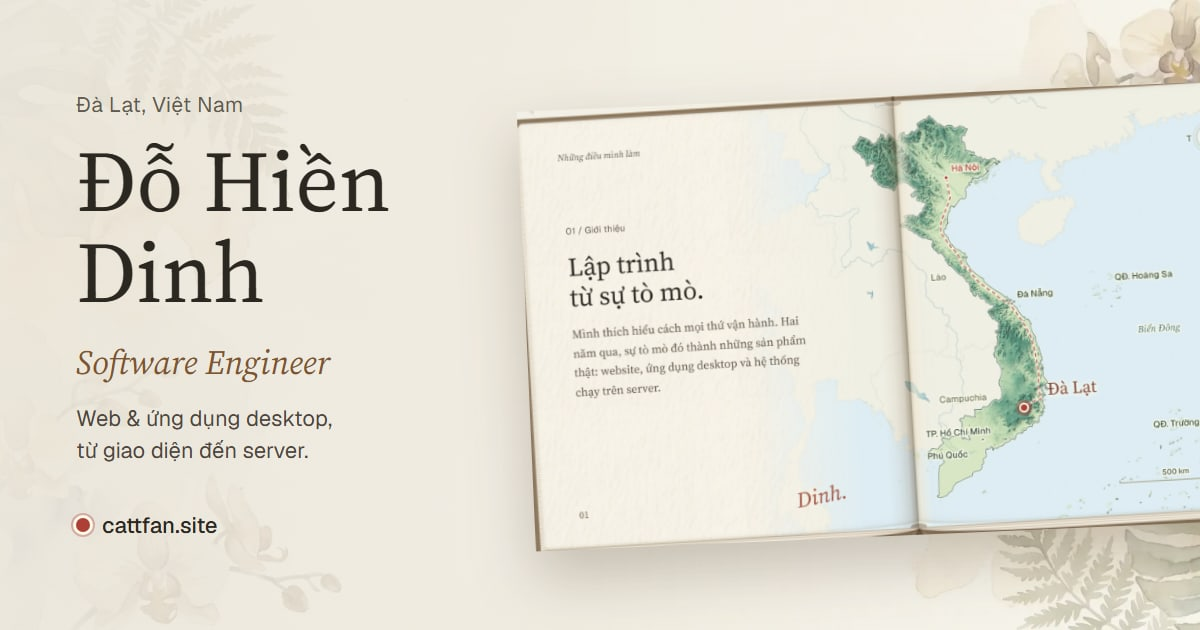
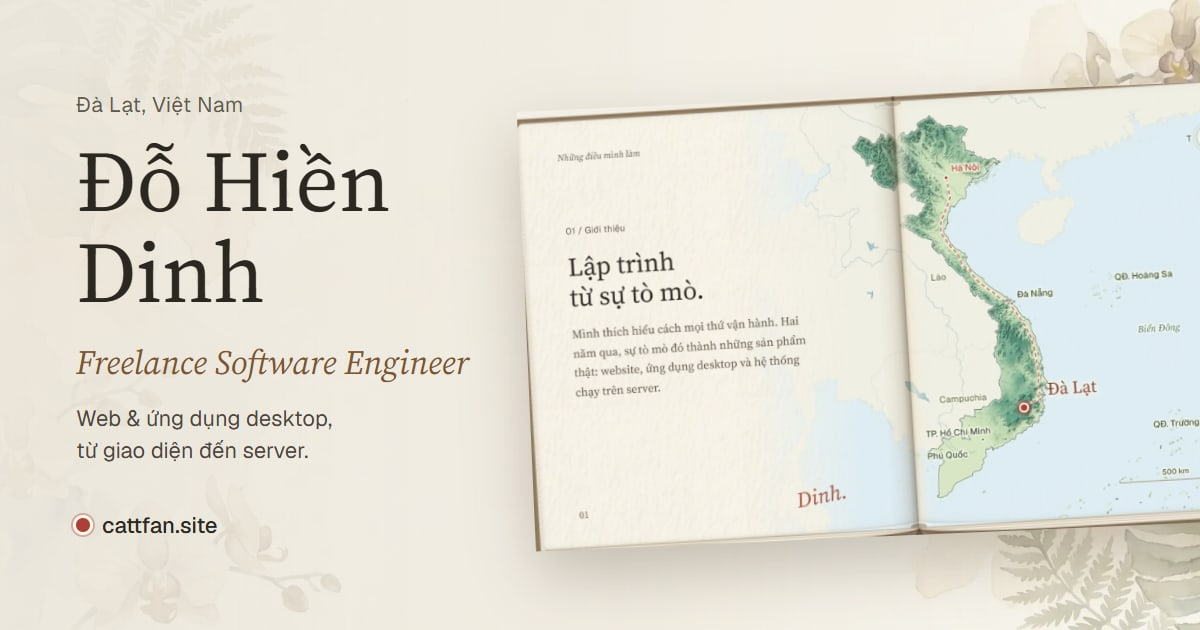
Add an English page at /en with its own metadata and preview
/en renders English server HTML (exported with lang="en"), English title,
description and social image, and hreflang alternates; the sitemap lists
both pages. The language toggle keeps the address on the matching page.
Both pages carry JSON-LD Person data, and og:image:alt no longer ends in a
stray CRLF. Nginx redirects /en/ to /en with relative redirects.

Changed region(s): [[0.0617, 0.5429, 0.4008, 0.6032]]

diff --git a/apps/web/app/page-metadata.ts b/apps/web/app/page-metadata.ts
@@ -1,0 +1,71 @@
+import type { Metadata } from "next";
+
+const indexable = process.env.PORTFOLIO_INDEXABLE === "1";
+
+const copy = {
+  vi: {
+    path: "/",
+    locale: "vi_VN",
+    alternateLocale: "en_US",
+    title: "Đỗ Hiền Dinh | Freelance Software Engineer",
+    description:
+      "Freelance Software Engineer ở Đà Lạt với 2 năm kinh nghiệm làm web và ứng dụng desktop, từ giao diện đến server. Dự án, công nghệ và thông tin liên hệ.",
+  },
+  en: {
+    path: "/en",
+    locale: "en_US",
+    alternateLocale: "vi_VN",
+    title: "Đỗ Hiền Dinh | Freelance Software Engineer",
+    description:
+      "Freelance Software Engineer in Da Lat, Vietnam, with two years of experience building web and desktop apps, from interface to server. Projects, tech stack and contact details.",
+  },
+} as const;
+
+// Each language page owns its metadata; robots live here so the 404 page keeps
+// only Next's own noindex tag.
+export function pageMetadata(language: keyof typeof copy): Metadata {
+  const page = copy[language];
+  return {
+    title: page.title,
+    description: page.description,
+    alternates: {
+      canonical: page.path,
+      languages: { vi: "/", en: "/en", "x-default": "/" },
+    },
+    openGraph: {
+      title: page.title,
+      description: page.description,
+      siteName: "Đỗ Hiền Dinh",
+      locale: page.locale,
+      alternateLocale: page.alternateLocale,
+      type: "website",
+      url: page.path,
+    },
+    twitter: {
+      card: "summary_large_image",
+      title: page.title,
+      description: page.description,
+    },
+    robots: indexable
+      ? { index: true, follow: true }
+      : { index: false, follow: false, nocache: true },
+  };
+}
+
+// Structured data for search engines: who the site is about and how to reach them.
+export function personJsonLd(language: keyof typeof copy) {
+  return JSON.stringify({
+    "@context": "https://schema.org",
+    "@type": "Person",
+    name: "Đỗ Hiền Dinh",
+    jobTitle: "Freelance Software Engineer",
+    url: new URL(copy[language].path, "https://cattfan.site").href,
+    email: "mailto:dohiendinh.work@gmail.com",
+    address: {
+      "@type": "PostalAddress",
+      addressLocality: "Đà Lạt",
+      addressCountry: "VN",
+    },
+    sameAs: ["https://github.com/cattfan"],
+  });
+}

diff --git a/apps/web/components/language-provider.tsx b/apps/web/components/language-provider.tsx
@@ -32,7 +32,17 @@ const getLanguage = (): Language => {
     return "vi";
   }
 };
-const serverLanguage = (): Language => "vi";
+// "/" follows the visitor's saved choice; "/en" always opens in English so a
+// shared English link shows English. The server renders each page's own language.
+const snapshots: Record<Language, () => Language> = {
+  vi: getLanguage,
+  en: () => "en",
+};
+const serverSnapshots: Record<Language, () => Language> = {
+  vi: () => "vi",
+  en: () => "en",
+};
+export const languagePath: Record<Language, string> = { vi: "/", en: "/en" };
 
 function textElements() {
   const all = Array.from(
@@ -59,8 +69,18 @@ function textElements() {
   );
 }
 
-export function LanguageProvider({ children }: { children: ReactNode }) {
-  const stored = useSyncExternalStore(subscribe, getLanguage, serverLanguage);
+export function LanguageProvider({
+  children,
+  initialLanguage = "vi",
+}: {
+  children: ReactNode;
+  initialLanguage?: Language;
+}) {
+  const stored = useSyncExternalStore(
+    subscribe,
+    snapshots[initialLanguage],
+    serverSnapshots[initialLanguage],
+  );
   const [override, setOverride] = useState<Language | null>(null);
   const [requested, setRequested] = useState<Language | null>(null);
   const animations = useRef<Animation[]>([]);
@@ -102,6 +122,13 @@ export function LanguageProvider({ children }: { children: ReactNode }) {
       } catch {
         /* Switching works without storage access. */
       }
+      // Keep the address on the page for the shown language, so a copied link matches.
+      if (window.location.pathname !== languagePath[next])
+        window.history.replaceState(
+          window.history.state,
+          "",
+          languagePath[next] + window.location.search + window.location.hash,
+        );
       animations.current.forEach((animation) => animation.cancel());
       animations.current = [];
       if (reduced || typeof Element.prototype.animate !== "function") {

diff --git a/apps/web/app/page.module.css b/apps/web/app/page.module.css
@@ -141,12 +141,22 @@
 .nav a:hover {
   color: var(--forest);
 }
+/* A call to action, not an "active section" underline. */
 .contact {
   display: flex;
   align-items: center;
   gap: 9px;
-  border-bottom: 1px solid var(--ink);
-  padding-bottom: 4px;
+  padding: 6px 14px;
+  border: 1px solid var(--line);
+  border-radius: 999px;
+  transition: background-color 160ms ease, border-color 160ms ease;
+}
+.contact:hover {
+  border-color: var(--ink);
+  background: #fffaf0;
+}
+.projectsShortcut {
+  display: none;
 }
 .bridge {
   max-width: 1120px;
@@ -164,6 +174,8 @@
   display: flex;
   gap: 18px;
   align-items: center;
+  /* Keeps the link a comfortable tap target (WCAG 2.2 asks for 24px). */
+  min-height: 32px;
   color: var(--forest);
 }
 @media (max-width: 800px) {
@@ -183,12 +195,13 @@
     gap: 10px;
   }
   .small {
-    font-size: 10px;
+    font-size: 11px;
   }
   .wordmark {
     gap: 8px;
     font-size: 12px;
     min-width: 0;
+    white-space: nowrap;
   }
   .monogram {
     font-size: 31px;
@@ -223,8 +236,18 @@
     background: #efe8da;
   }
   .header:has(.menu[open]) .contact {
-    border-bottom: 0;
-    padding-bottom: 0;
+    border: 0;
+    border-radius: 5px;
+    padding: 0 12px;
+  }
+  .projectsShortcut {
+    display: inline-flex;
+    align-items: center;
+    min-height: 36px;
+    padding: 0 8px;
+    font-size: 13px;
+    font-weight: 500;
+    color: var(--forest);
   }
   .menu {
     display: block;
@@ -249,6 +272,17 @@
     margin: 0 20px;
     padding: 24px 0;
     font-size: 13px;
+  }
+}
+/* With the projects shortcut in the row, the name keeps one line and drops its title. */
+@media (max-width: 430px) {
+  .small {
+    display: none;
+  }
+}
+@media (max-width: 359px) {
+  .projectsShortcut {
+    display: none;
   }
 }
 @media (max-width: 380px) {

diff --git a/apps/web/app/layout.tsx b/apps/web/app/layout.tsx
@@ -4,7 +4,7 @@ import "./globals.css";
 
 const siteUrl = new URL("https://cattfan.site");
 const description =
-  "Software Engineer ở Đà Lạt với 2 năm kinh nghiệm làm web và ứng dụng desktop, từ giao diện đến server. Dự án, công nghệ và thông tin liên hệ.";
+  "Freelance Software Engineer ở Đà Lạt với 2 năm kinh nghiệm làm web và ứng dụng desktop, từ giao diện đến server. Dự án, công nghệ và thông tin liên hệ.";
 
 const geistSans = localFont({
   src: "./fonts/Geist-Regular.woff2",
@@ -49,26 +49,12 @@ const bookSerif = localFont({
   display: "swap",
 });
 
+// Shared defaults; app/page-metadata.ts sets each language page's own metadata.
 export const metadata: Metadata = {
   metadataBase: siteUrl,
-  alternates: { canonical: "/" },
-  title: "Đỗ Hiền Dinh | Software Engineer",
+  title: "Đỗ Hiền Dinh | Freelance Software Engineer",
   description,
   authors: [{ name: "Đỗ Hiền Dinh", url: siteUrl }],
-  openGraph: {
-    title: "Đỗ Hiền Dinh | Software Engineer",
-    description,
-    siteName: "Đỗ Hiền Dinh",
-    locale: "vi_VN",
-    alternateLocale: "en_US",
-    type: "website",
-    url: "/",
-  },
-  twitter: {
-    card: "summary_large_image",
-    title: "Đỗ Hiền Dinh | Software Engineer",
-    description,
-  },
 };
 
 export const viewport: Viewport = {
@@ -81,7 +67,8 @@ export default function RootLayout({
   children: React.ReactNode;
 }>) {
   return (
-    <html lang="vi">
+    // The English page is exported with lang="en"; the client keeps it in sync.
+    <html lang="vi" suppressHydrationWarning>
       <body
         className={`${geistSans.variable} ${newsreader.variable} ${bookSerif.variable}`}
       >

diff --git a/apps/web/app/page.tsx b/apps/web/app/page.tsx
@@ -1,15 +1,17 @@
 import type { Metadata } from "next";
 import { Home } from "../components/home";
+import { pageMetadata, personJsonLd } from "./page-metadata";
 
-const indexable = process.env.PORTFOLIO_INDEXABLE === "1";
-
-// Robots live on the home page only: the 404 page keeps Next's own noindex tag.
-export const metadata: Metadata = {
-  robots: indexable
-    ? { index: true, follow: true }
-    : { index: false, follow: false, nocache: true },
-};
+export const metadata: Metadata = pageMetadata("vi");
 
 export default function Page() {
-  return <Home />;
+  return (
+    <>
+      <script
+        type="application/ld+json"
+        dangerouslySetInnerHTML={{ __html: personJsonLd("vi") }}
+      />
+      <Home />
+    </>
+  );
 }

diff --git a/apps/web/app/en/page.tsx b/apps/web/app/en/page.tsx
@@ -1,0 +1,19 @@
+import type { Metadata } from "next";
+import { Home } from "../../components/home";
+import { pageMetadata, personJsonLd } from "../page-metadata";
+
+// English edition: same page, English server HTML and link previews.
+// build-static.mjs sets <html lang="en"> in the exported en.html.
+export const metadata: Metadata = pageMetadata("en");
+
+export default function Page() {
+  return (
+    <>
+      <script
+        type="application/ld+json"
+        dangerouslySetInnerHTML={{ __html: personJsonLd("en") }}
+      />
+      <Home language="en" />
+    </>
+  );
+}

diff --git a/apps/web/components/home.tsx b/apps/web/components/home.tsx
@@ -6,10 +6,11 @@ import { PortfolioSections, SiteFooter } from "./portfolio-sections";
 import { LanguageProvider, useLanguage } from "./language-provider";
 import { SiteHeader } from "./site-header";
 import styles from "../app/page.module.css";
+import type { Language } from "../content/translations";
 
-export function Home() {
+export function Home({ language = "vi" }: { language?: Language }) {
   return (
-    <LanguageProvider>
+    <LanguageProvider initialLanguage={language}>
       <HomeContent />
     </LanguageProvider>
   );
